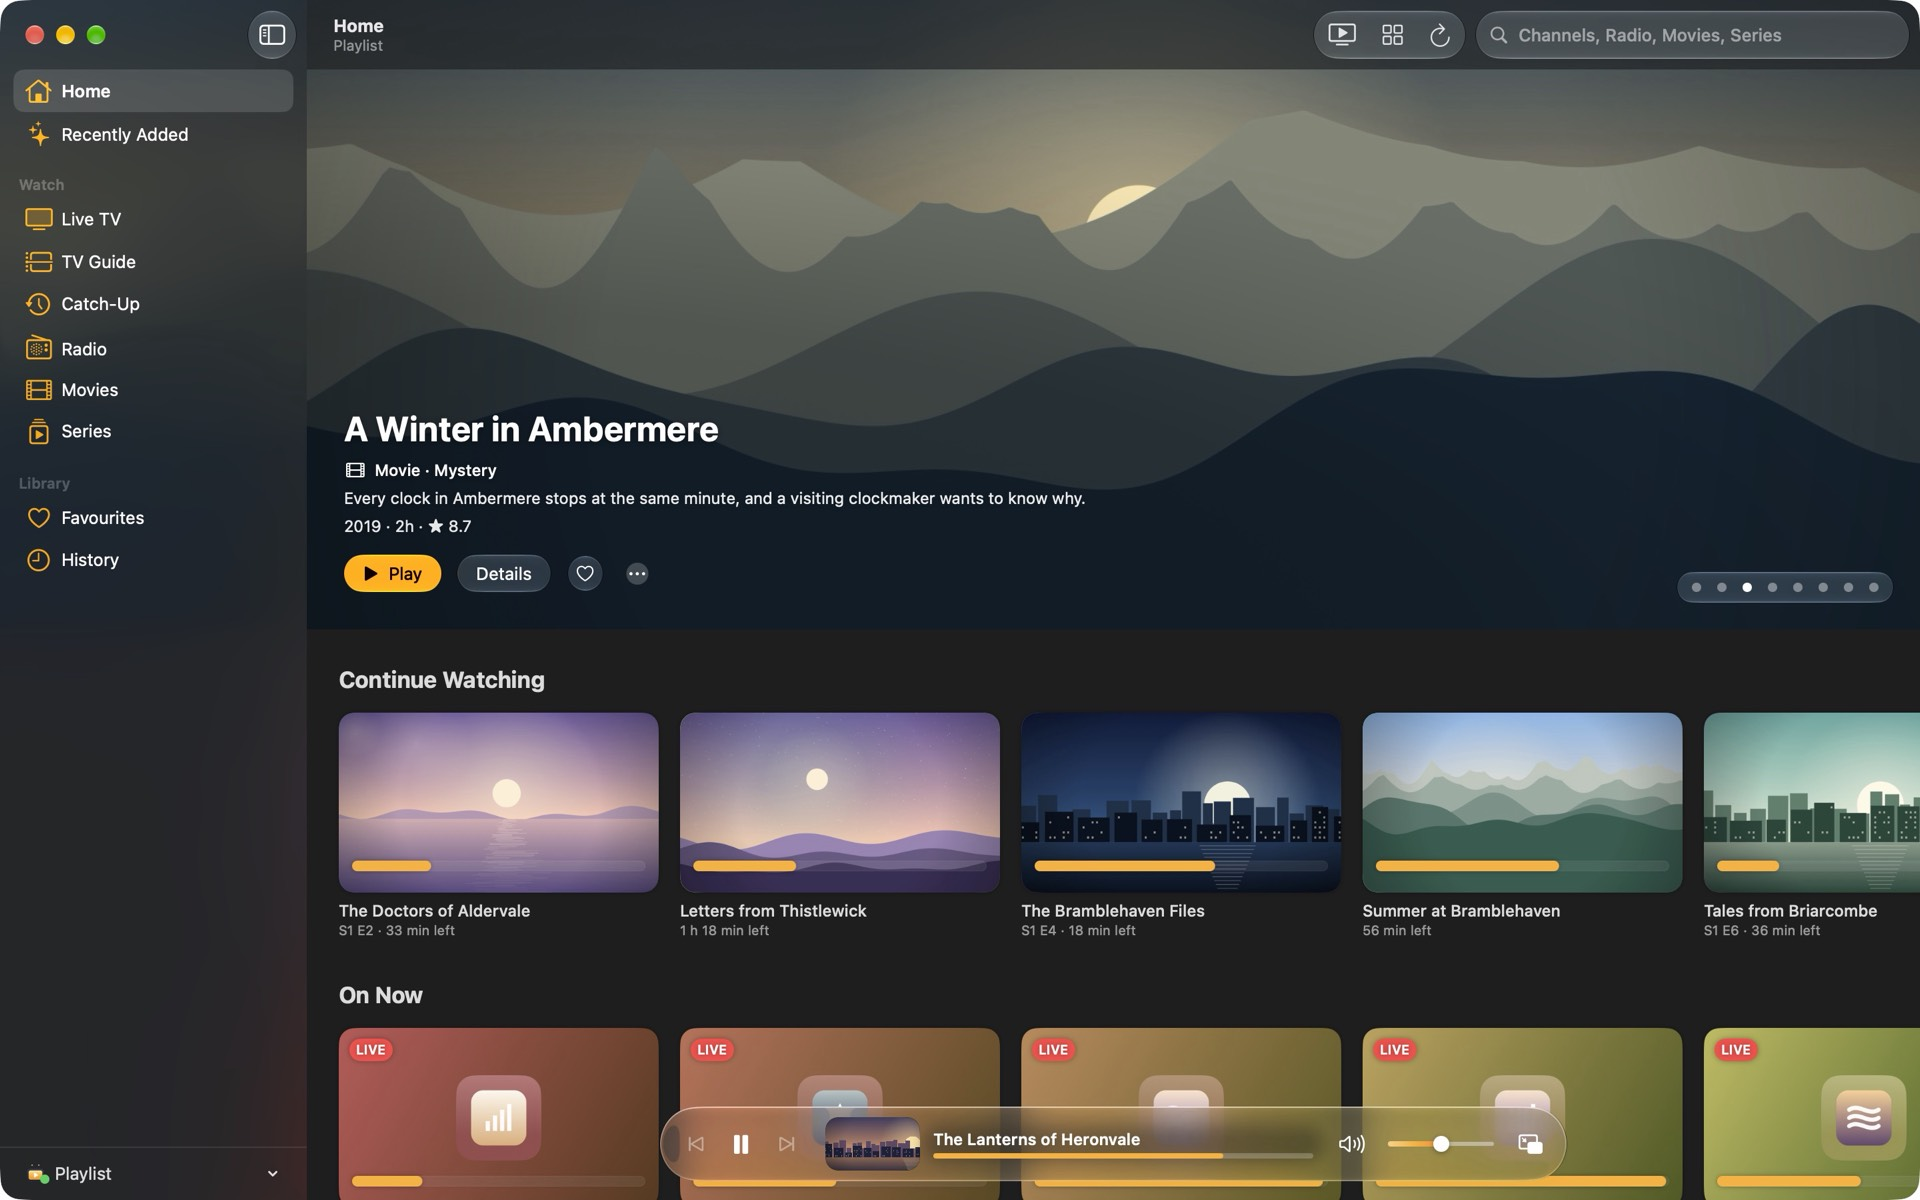
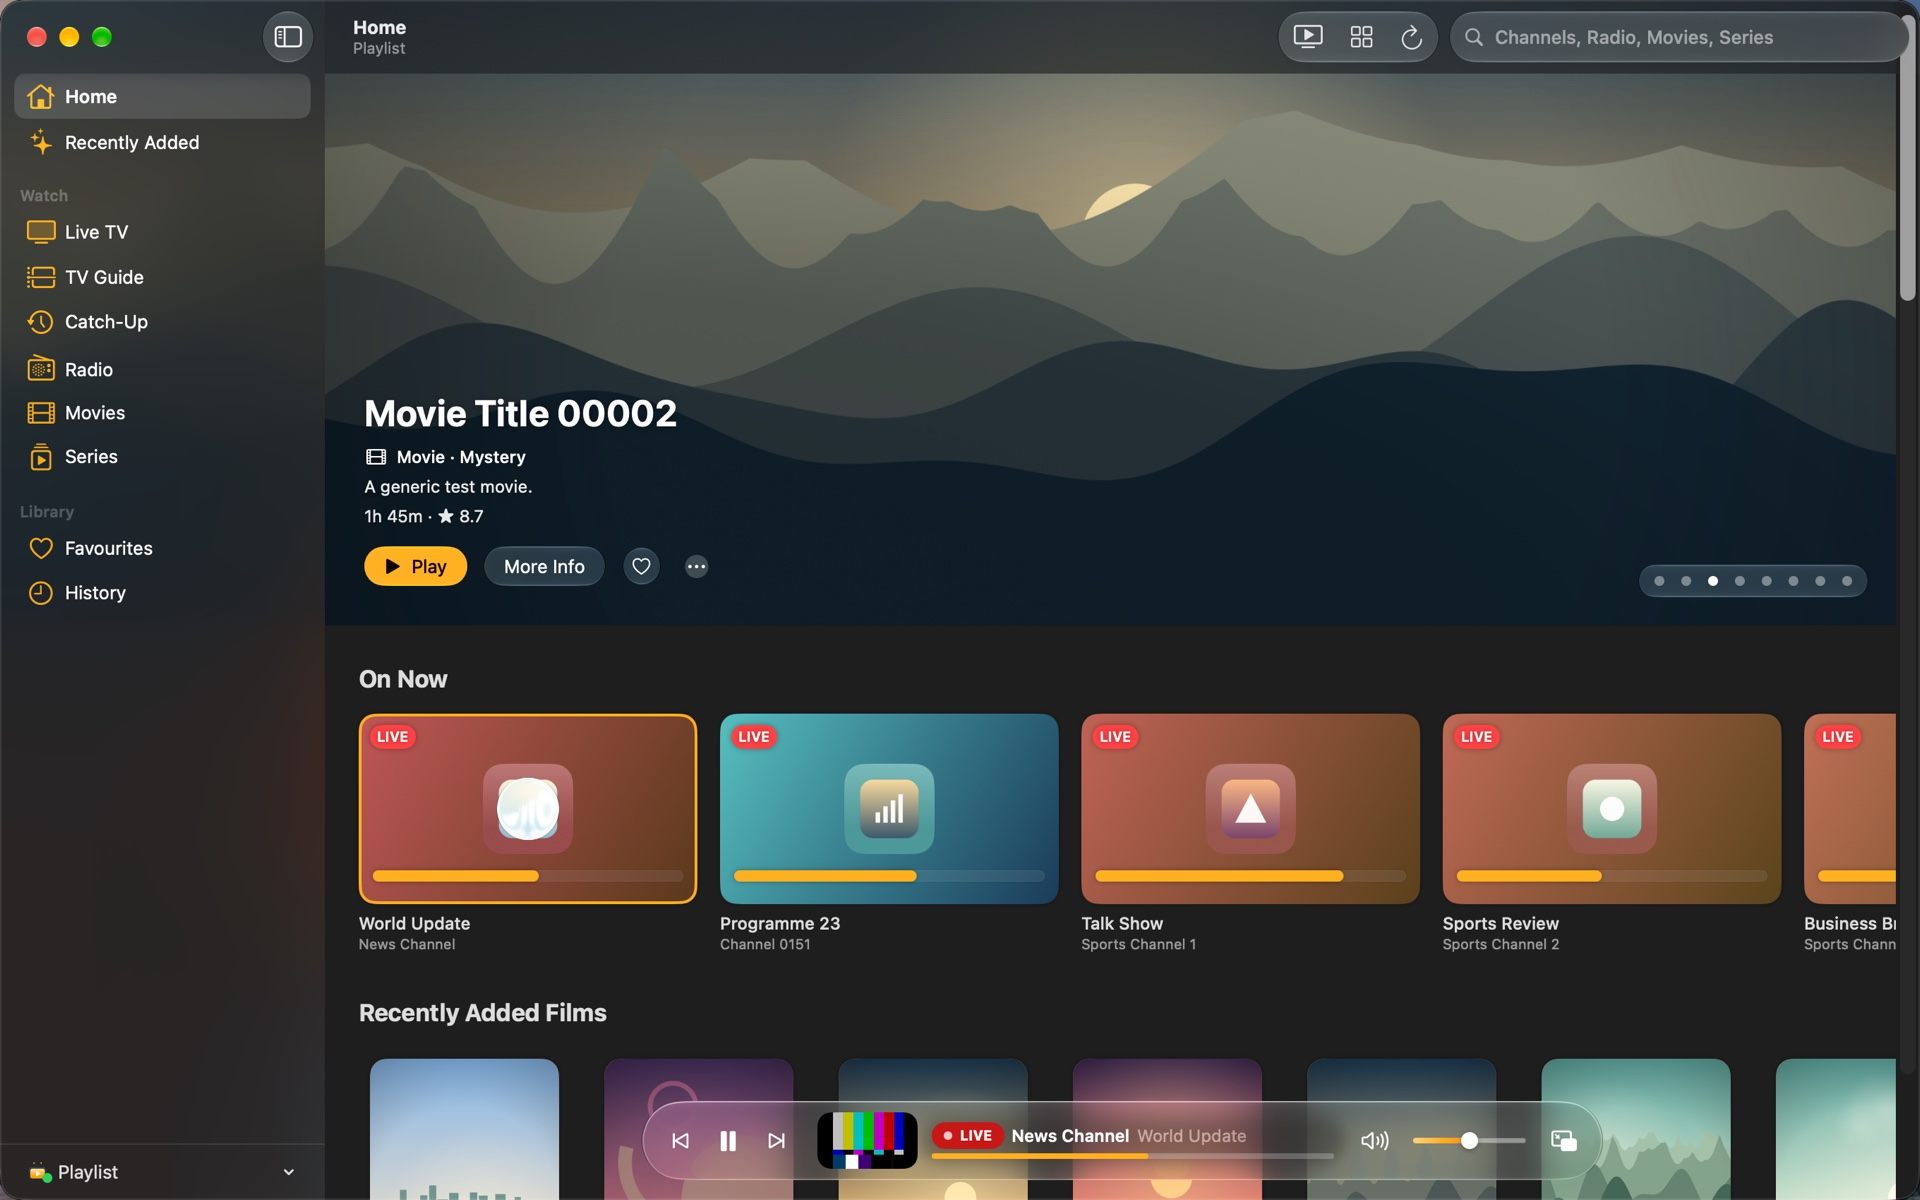
ElBee Player v0.44.0

diff --git a/README.md b/README.md
@@ -23,33 +23,83 @@
 </p>
 
 <p align="center">
+  <a href="https://github.com/ElBeeHQ/ElBeePlayer/releases/latest"><img src="https://img.shields.io/badge/Download%20for%20Mac-FFB020?style=for-the-badge" alt="Download for Mac" height="36"></a>
+</p>
+
+<p align="center">
   <picture>
     <source media="(prefers-color-scheme: dark)" srcset="assets/screenshot-dark.jpg">
-    <img src="assets/screenshot-light.jpg" alt="ElBee Player's Home on a Mac: a banner of new films, Continue Watching and On Now">
+    <img src="assets/screenshot-light.jpg" alt="ElBee Player's Home on a Mac: a banner of new films, Continue Watching and On Now, with a film playing in the Now Playing bar">
   </picture>
 </p>
 
 ElBee Player plays the channels, programme guide, films and series from the TV service you already subscribe to.
 Sign in with your provider's server address, username and password, or add a playlist link or file. It comes with
-no channels or content of its own.
+no channels or content of its own: it's the player, and your service is the content.
+
+It's free for personal use, with no account, no adverts and no tracking.
 
 ## Why ElBee Player
 
-- **Made for the Mac.** A sidebar, an inspector, a full menu bar, media keys and Control Centre, and the system's own
-  glass on macOS 26. What's playing keeps playing in a bar at the foot of the page while you browse.
-- **No account, no ads, no tracking.** Recommendations are worked out on your Mac, and nothing about what you watch is
-  sent to us or anyone else.
-- **Your sign-in stays on your Mac,** in the macOS Keychain, and goes only to your own service.
-- **A real TV Guide,** a week ahead, with reminders, Record Series, catch-up and rewinding live TV where your service
-  offers it. Multi-View plays up to four channels at once.
-- **Spatial Audio:** films and episodes with surround sound can play as spatial sound on your Mac.
-- **Updates itself,** from this page, checked against ElBee Player's signing key. Your playlists and settings are kept.
+- **Made for the Mac, not ported to it.** A sidebar, an inspector, a full menu bar, keyboard shortcuts, media keys and
+  Control Centre, and the system's own glass on macOS 26. What's playing keeps playing in a bar at the foot of the page
+  while you browse.
+- **Everything in one place.** Live TV, a week-long TV Guide, catch-up, films, series and radio, from one sign-in.
+- **Your country first.** Choose a Preferred Country and its channels and titles lead every list, followed by the
+  countries that share its language. Content Languages hides the rest if you want it gone altogether.
+- **Private by design.** Recommendations are worked out on your Mac. Your sign-in stays in the macOS Keychain and
+  goes only to your own service. Nothing about what you watch is sent to us or anyone else.
 
-## Download
+## Features
 
-<p>
-  <a href="https://github.com/ElBeeHQ/ElBeePlayer/releases/latest"><img src="https://img.shields.io/badge/Download%20for%20Mac-FFB020?style=for-the-badge" alt="Download for Mac" height="36"></a>
-</p>
+<table>
+  <tr>
+    <td width="50%" valign="top">
+      <h3>Live TV and the TV Guide</h3>
+      <ul>
+        <li>A TV Guide a week ahead, with reminders and Record Series.</li>
+        <li>Catch-up, and pause and rewind live TV, where your service offers it.</li>
+        <li>Multi-View: up to four channels at once.</li>
+        <li>Switch channels without leaving full screen: press ↑ or ↓, or type the channel's number.</li>
+        <li>Use Another Guide: bring your own programme guide link, with automatic channel matching and Match Guide Channel… for the rest.</li>
+      </ul>
+    </td>
+    <td width="50%" valign="top">
+      <h3>Films and series</h3>
+      <ul>
+        <li>A page for every title, with artwork, cast, seasons and More Like This.</li>
+        <li>4K, HD, HDR, 5.1, 7.1 and Spatial Audio badges, so you know what you're getting.</li>
+        <li>Spatial Audio: surround sound plays as spatial sound on your Mac.</li>
+        <li>Continue Watching and Up Next pick up where you stopped.</li>
+        <li>Recently Added rows for new films and series.</li>
+      </ul>
+    </td>
+  </tr>
+  <tr>
+    <td width="50%" valign="top">
+      <h3>Make it yours</h3>
+      <ul>
+        <li>Rename Channel… and Change Logo… on any live channel, from a link or a picture.</li>
+        <li>Manage Categories: hide them, set their country, or hide a whole region at once.</li>
+        <li>Put Home's rows in your own order, and hide the ones you don't use.</li>
+        <li>Play In: open live TV, films or series in another player app on your Mac if you prefer.</li>
+        <li>Parental controls, with Touch ID to unlock, and age ratings for films.</li>
+      </ul>
+    </td>
+    <td width="50%" valign="top">
+      <h3>Around your home</h3>
+      <ul>
+        <li>Add from Your Phone: scan a code with ElBee Player for Android and the playlist arrives, encrypted, with no typing.</li>
+        <li>Send to Another Device…: send a playlist to your TV or another Mac in the same way.</li>
+        <li>Cast to the TVs and speakers on your network.</li>
+        <li>A floating video window that stays on top while you work.</li>
+        <li>Back Up Settings…: keep your playlists, favourites and settings in one file, with your sign-in protected by a passphrase, and restore them on another Mac.</li>
+      </ul>
+    </td>
+  </tr>
+</table>
+
+## Download and install
 
 1. Download the disk image from the [latest release](https://github.com/ElBeeHQ/ElBeePlayer/releases/latest) or
    [elbeehq.com/mac](https://elbeehq.com/mac).
@@ -60,6 +110,27 @@ no channels or content of its own.
 
 Needs macOS 15 or later on Apple silicon or Intel, and your own TV service.
 
+## Getting started
+
+1. **Add your service.** Choose Server Sign-In and enter the server address, username and password your provider gave
+   you, or add a playlist link or file. Already have it on your Android phone? Choose **File › Add from Your Phone…**
+   and scan the code instead.
+2. **Choose your languages and country.** ElBee Player asks which languages you watch in and, if your playlist covers
+   several countries, which one should come first.
+3. **Watch.** Home shows what's new, what's on now and what you were watching. Everything else is in the sidebar.
+
+## Updates
+
+ElBee Player updates itself from this page. Each update is checked against ElBee Player's own signing key before it's
+installed, and your playlists and settings are kept. You can turn automatic checks off in **Settings › General ›
+Updates**. Every change is listed in [What's New](CHANGELOG.md).
+
+## Also from ElBeeHQ
+
+- [**ElBee Player for Android**](https://elbeehq.com/android): phones, tablets, Android TV, Google TV and Fire TV,
+  with the same Preferred Country and send-to-another-device features.
+- [**ElBee Stats**](https://elbeehq.com/stats/): download statistics for your own GitHub releases, on your Mac.
+
 ## Links
 
 [What's New](CHANGELOG.md) · [Help](https://elbeehq.com/support) · [Report a problem](https://github.com/ElBeeHQ/ElBeePlayer/issues) ·
@@ -68,8 +139,8 @@ Needs macOS 15 or later on Apple silicon or Intel, and your own TV service.
 <sub>ElBee Player is a media player only. It includes no channels, films or other content; use it only with services
 and media you have the right to use. ElBeeHQ is not affiliated with, endorsed by or sponsored by any broadcaster,
 content owner, TV service, Apple, GitHub, VideoLAN, the FFmpeg project or Sparkle. Mac and macOS are trademarks of
-Apple Inc. GitHub is a trademark of GitHub, Inc. Other names belong to their owners and are used only to describe
-compatibility.</sub>
+Apple Inc. GitHub is a trademark of GitHub, Inc. Android is a trademark of Google LLC. Other names belong to their
+owners and are used only to describe compatibility.</sub>
 
 <sub>© 2026 ElBeeHQ. Free for personal, non-commercial use; see [LICENSE](LICENSE). Versions up to 0.10.01 were
 released under the GNU General Public License, version 3. ElBee Player includes VLCKit and FFmpeg (LGPL 2.1 or later,

diff --git a/CHANGELOG.md b/CHANGELOG.md
@@ -3,6 +3,32 @@
 All notable changes to ElBee Player are listed here, newest first. Earlier releases are described on the
 [GitHub releases page](https://github.com/ElBeeHQ/ElBeePlayer/releases).
 
+## v0.44.0: Back up and restore, and Home follows your country (21 November 2026)
+
+You can now save your settings and playlists to a file and bring them back on this Mac or another one, and Home follows your Preferred Country.
+
+Your settings and playlists are all kept: none was renamed or reset.
+
+### In short
+
+- New: Back Up Settings… and Restore from Backup…, in Settings › General › Backup and the File menu
+- New: Home's rows follow Preferred Country
+- Changed: a channel grouped with its other versions shows the name and logo you gave it
+- Changed: Send to TV… is now Send to Another Device…
+
+### New
+
+- **Back Up Settings…:** saves your settings, playlists, favourites, history, hidden and locked categories, and channel names and logos into one `.elbeebackup` file. Add a passphrase to include your sign-in details; without one they are left out. A lost passphrase can't be recovered.
+- **Restore from Backup…:** shows what is in the file first. Merge (the default) adds what is in the backup to what is here; Replace makes this Mac match it, and asks once more before removing playlists that are only here. A restore never unlocks a locked category or changes the parental lock or its PIN.
+- **Home follows Preferred Country:** On Now and Recently Added Films and Series show your country's channels and titles first, then countries that share its language. Continue Watching and Favourites are unchanged.
+
+### Changed
+
+- Renaming or changing the logo of a channel that comes in several versions (HD, SD…) applies to all of them, and the combined row, the inspector and the TV Guide show it.
+- A renamed channel shows its own name in the player when no programme is known, in the floating window and in what you share.
+- Add from Your Phone chooses the network your Mac's default route uses when Wi-Fi and Ethernet are both connected.
+- Send to Another Device… is the new name of Send to TV…; Settings search still finds it by TV.
+
 ## v0.43.0: Add from Your Phone, and your own channel names and logos (21 November 2026)
 
 You can now send a playlist from your Android phone to this Mac, and give any live channel a name and a logo of your own.
